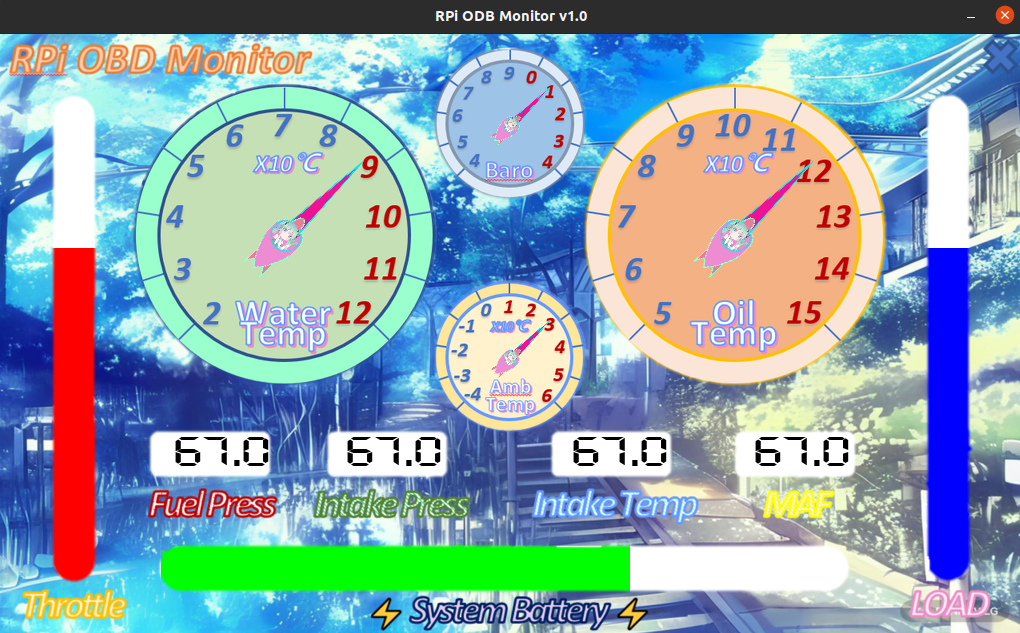
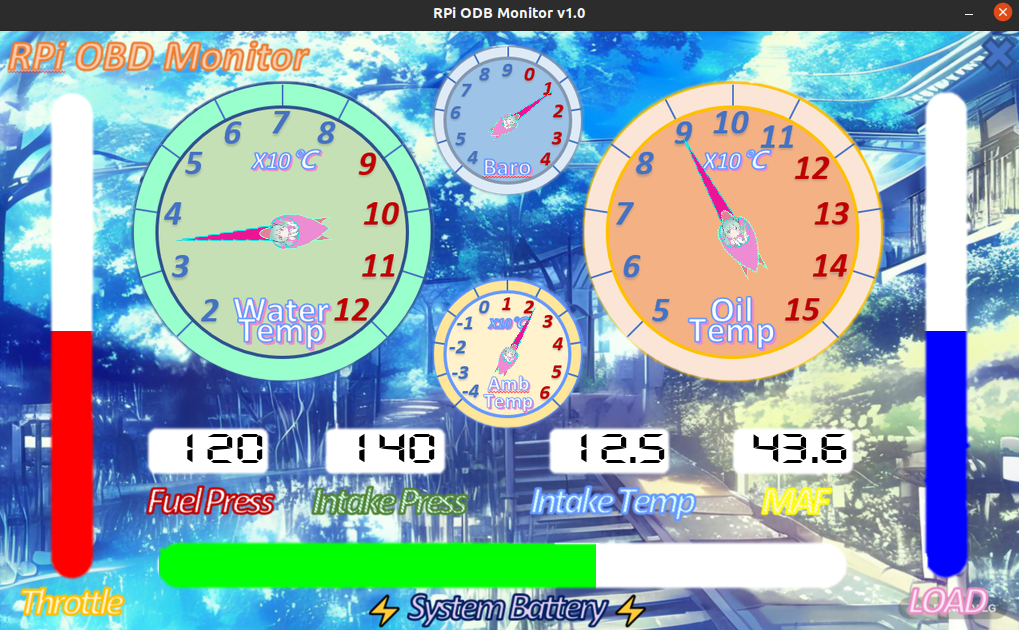
Tune min max val

Changed region(s): [[0.0, 0.0, 1.0, 1.0], [0.1825, 0.9349, 0.213, 0.9651]]

diff --git a/pygame_gui.py b/pygame_gui.py
@@ -25,16 +25,15 @@ class GUI():
                 if val >= pow(10, self.int_places):
                     str_val = '9' * self.int_places
                 else:
-                    str_val = str(int(val)).zfill(self.int_places)
+                    str_val = str(round(val)).zfill(self.int_places)
             else:
                 if val >= pow(10, self.int_places):
                     str_int = '9' * self.int_places
                     str_dec = '9' * self.dec_places
                 else:
-                    [str_int, str_dec] = str(float(val)).split('.')
+                    val = ("%." + str(self.dec_places) + "f") % float(val)
+                    [str_int, str_dec] = val.split('.')
                     str_int = str_int.zfill(self.int_places)
-                    str_dec = ("%." + str(self.dec_places) + "f") % float(str_dec)
-                    str_dec = str_dec.split('.')[-1]
                     
                 str_val = str_int + '.' + str_dec
             
@@ -73,6 +72,7 @@ class GUI():
                 val_pose = (val_pose[0], val_pose[1] + val_size[1] * (1 - val_portion))
                 val_size = (val_size[0], val_size[1] * val_portion)
             
+            val_size = (int(val_size[0]), int(val_size[1]))
             bar = pygame.Surface(val_size, flags = pygame.HWSURFACE)
             bar.fill(self.color)
             
@@ -118,18 +118,18 @@ class GUI():
         self.componet = [
             None, 
             None, 
-            self.GUI_Bar((50, 50), (50, 500), (255, 0, 0), 0, 100, "^"), 
-            self.GUI_Bar((924, 50), (50, 500), (0, 0, 255), 0, 100, "^"), 
-            self.GUI_Meter((137, 51), (300, 300), 0, 100, pointer_path), 
-            self.GUI_Meter((587, 51), (300, 300), 0, 100, pointer_path), 
-            self.GUI_Digit((162, 400), 40, (0, 0, 0), font_path, 2, 1), 
-            self.GUI_Digit((334, 400), 40, (0, 0, 0), font_path, 2, 1), 
+            self.GUI_Bar((50, 50), (50, 500), (255, 0, 0), 0.0, 100.0, "^"), 
+            self.GUI_Bar((924, 50), (50, 500), (0, 0, 255), 0.0, 100.0, "^"), 
+            self.GUI_Meter((137, 51), (300, 300), 20.0, 120.0, pointer_path), 
+            self.GUI_Meter((587, 51), (300, 300), 50.0, 150.0, pointer_path), 
+            self.GUI_Digit((162, 400), 40, (0, 0, 0), font_path, 3, 0), 
+            self.GUI_Digit((334, 400), 40, (0, 0, 0), font_path, 3, 0), 
             self.GUI_Digit((560, 400), 40, (0, 0, 0), font_path, 2, 1), 
             self.GUI_Digit((742, 400), 40, (0, 0, 0), font_path, 2, 1), 
-            self.GUI_Meter((437, 15), (150, 150), 0, 100, pointer_path), 
-            self.GUI_Meter((437, 248), (150, 150), 0, 100, pointer_path), 
+            self.GUI_Meter((437, 15), (150, 150), 94.0, 104.0, pointer_path), 
+            self.GUI_Meter((437, 248), (150, 150), -40.0, 60.0, pointer_path), 
             None, 
-            self.GUI_Bar((162, 510), (700, 50), (0, 255, 0), 0, 100, ">")
+            self.GUI_Bar((162, 510), (700, 50), (0, 255, 0), 11.0, 15.0, ">")
         ]
         
         self.foreground = pygame.image.load(foreground_path).convert_alpha()
@@ -138,17 +138,26 @@ class GUI():
         # self.obd = obd_interface.OBD()
         # cmd_list = list(range(len(self.obd.info_list)))
         # self.obd.register_cmd_watch(cmd_list)
-
-        self.init = 100
     
     def read_obd(self):
         # result = self.obd.query_cmd()
         
-        if self.init > 100:
-            self.init = 0
-            
-        result = [self.init] * 14
-        self.init += 1
+        result = [
+            0.0, 
+            0.0, 
+            50.0, 
+            50.0, 
+            35.0, 
+            89.4, 
+            120, 
+            140, 
+            12.5, 
+            43.6, 
+            101, 
+            20.5, 
+            0.0, 
+            13.5
+        ]
         
         return result
     

diff --git a/README.md b/README.md
@@ -1,7 +1,7 @@
 # RPi_OBD_Monitor
 GUI monitor of car information using OBD interface on a Raspberry Pi.
 
-![image](https://github.com/StarRealMan/RPi_OBD_Monitor/image/show.png)
+![image](https://github.com/StarRealMan/RPi_OBD_Monitor/tree/main/image)
 
 ## Dependencies
 1. Raspberry Pi
